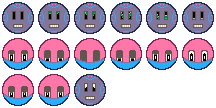
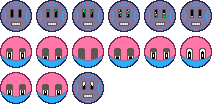
Integrate dgm::TextureAtlas and animated magnet lines

Changed region(s): [[0.0, 0.0, 1.0, 0.3173], [0.0, 0.3462, 0.5094, 1.0], [0.5094, 0.3462, 1.0, 0.6635]]

diff --git a/lib/src/game/engine/RenderingEngine.cpp b/lib/src/game/engine/RenderingEngine.cpp
@@ -34,6 +34,22 @@ static dgm::Camera createFullscreenCamera(
     return dgm::Camera(viewport, sf::Vector2f(desiredResolution));
 }
 
+static auto setAndGetSpritesheet(
+    dgm::TextureAtlas& atlas,
+    const sf::Texture& texture,
+    const dgm::AnimationStates& states)
+{
+    auto locator = atlas.addSpritesheet(texture, states);
+    return atlas.getAnimationStates(locator.value());
+}
+
+static auto setAndGetTileset(
+    dgm::TextureAtlas& atlas, const sf::Texture& texture, const dgm::Clip& clip)
+{
+    auto locator = atlas.addTileset(texture, clip);
+    return atlas.getClip(locator.value());
+}
+
 RenderingEngine::RenderingEngine(
     dgm::Window& window,
     dgm::ResourceManager& resmgr,
@@ -41,22 +57,39 @@ RenderingEngine::RenderingEngine(
     const StringProvider& strings,
     Scene& scene,
     const TiledLevel& level) noexcept
+    // Dependencies
     : window(window)
     , settings(settings)
     , strings(strings)
     , scene(scene)
+    // Atlas properties
+    , atlas(1024, 1024)
+    , ballAnimationStates(setAndGetSpritesheet(
+          atlas,
+          resmgr.get<sf::Texture>("ball.png"),
+          resmgr.get<dgm::AnimationStates>("ball.png.anim")))
+    , magnetLineAnimationStates(setAndGetSpritesheet(
+          atlas,
+          resmgr.get<sf::Texture>("lines.png"),
+          resmgr.get<dgm::AnimationStates>("lines.png.anim")))
+    , tileset(setAndGetTileset(
+          atlas,
+          resmgr.get<sf::Texture>("set.png"),
+          resmgr.get<dgm::Clip>("set.png.clip")))
+    // Non-drawables
     , boxDebugRenderer(window)
     , worldCamera(createFullscreenCamera(
           sf::Vector2f(window.getSize()), INTERNAL_RESOLUTION))
     , hudCamera(
           sf::FloatRect { { 0.f, 0.f }, { 1.f, 1.f } },
           sf::Vector2f(window.getSize()))
+    , animation(2, 10)
+
+    // Drawables
     , text(resmgr.get<sf::Font>("pico-8.ttf"))
-    , tileMap(dgm::TileMap(
-          resmgr.get<sf::Texture>("set.png"),
-          resmgr.get<dgm::Clip>("set.png.clip")))
-    , sprite(resmgr.get<sf::Texture>("ball.png"))
-    , ballStates(resmgr.get<dgm::AnimationStates>("ball.png.anim"))
+    , tileMap(dgm::TileMap(atlas.getTexture(), tileset))
+    , sprite(atlas.getTexture())
+    , line(atlas.getTexture())
     , background(resmgr.get<sf::Texture>("background-forest.png"))
 {
     tileMap.build(
@@ -67,9 +100,9 @@ RenderingEngine::RenderingEngine(
             | uniranges::to<std::vector>(),
         { level.width, level.height });
 
-    sprite.setTextureRect(ballStates["base_joe_idle"].getFrame(0));
-    sprite.setOrigin(
-        sf::Vector2f { ballStates["base_joe_idle"].getFrameSize() / 2u });
+    sprite.setTextureRect(ballAnimationStates["base_joe_idle"].getFrame(0));
+    sprite.setOrigin(sf::Vector2f {
+        ballAnimationStates["base_joe_idle"].getFrameSize() / 2u });
     spriteOutline.setRadius(sprite.getOrigin().x);
     spriteOutline.setOrigin(sprite.getOrigin());
     spriteOutline.setOutlineThickness(3.f);
@@ -77,10 +110,13 @@ RenderingEngine::RenderingEngine(
     boxDebugRenderer.SetFlags(b2Draw::e_shapeBit);
 
     background.setOrigin(INTERNAL_RESOLUTION / 2.f);
+
+    line.setOrigin({ 0.f, 12.f });
 }
 
 void RenderingEngine::update(const dgm::Time& time)
 {
+    animation.update(time);
     fpsCounter.update(time.getDeltaTime());
 }
 
@@ -131,12 +167,24 @@ void RenderingEngine::RenderWorld()
             const auto direction = scene.joe.GetPosition() - magnet.position;
             if (direction.length() < 6.f)
             {
-                auto vertices = std::array {
-                    sf::Vertex { .position = joePos },
-                    sf::Vertex { magnet.position * 32.f },
-                };
-                window.getSfmlWindowContext().draw(
-                    vertices.data(), 2u, sf::PrimitiveType::Lines);
+                const auto screenMagnetPos = magnet.position * 32.f;
+                line.setPosition(joePos);
+                line.setRotation(
+                    dgm::Math::cartesianToPolar(screenMagnetPos - joePos)
+                        .angle);
+                line.setScale({ (direction.length() * 32.f) / 48.f, 1.f });
+                line.setTextureRect(magnetLineAnimationStates
+                                        [magnet.polarity == 2 ? "red" : "blue"]
+                                            .getFrame(animation.getFrame()));
+
+                /* auto vertices = std::array {
+                                    sf::Vertex { .position = joePos },
+                                    sf::Vertex {},
+                                };
+                                window.getSfmlWindowContext().draw(
+                                    vertices.data(), 2u,
+                   sf::PrimitiveType::Lines);*/
+                window.draw(line);
             }
         }
     }

diff --git a/lib/include/game/engine/RenderingEngine.hpp b/lib/include/game/engine/RenderingEngine.hpp
@@ -8,6 +8,37 @@
 #include "strings/StringProvider.hpp"
 #include <DGM/dgm.hpp>
 
+class [[nodiscard]] SimpleAnimation final
+{
+public:
+    SimpleAnimation(size_t animLength, size_t fps) noexcept
+        : length(animLength), timePerFrame(sf::seconds(1.f / fps))
+    {
+    }
+
+public:
+    void update(const dgm::Time& time)
+    {
+        elapsed += time.getElapsed();
+        while (elapsed > timePerFrame)
+        {
+            elapsed -= timePerFrame;
+            frame = (frame + 1) % length;
+        }
+    }
+
+    CONSTEXPR_NODISCARD size_t getFrame() const noexcept
+    {
+        return frame;
+    }
+
+private:
+    size_t frame = 0;
+    size_t length = 1;
+    sf::Time timePerFrame;
+    sf::Time elapsed;
+};
+
 class [[nodiscard]] RenderingEngine final
 {
 public:
@@ -33,15 +64,23 @@ private:
     const VideoSettings& settings;
     const StringProvider& strings;
     Scene& scene;
+    dgm::TextureAtlas atlas;
+    dgm::AnimationStates ballAnimationStates;
+    dgm::AnimationStates magnetLineAnimationStates;
+    dgm::Clip tileset;
+
     BoxDebugRenderer boxDebugRenderer;
     dgm::Camera worldCamera;
     dgm::Camera hudCamera;
     FpsCounter fpsCounter;
-    sf::Text text;
+    SimpleAnimation animation;
 
+    sf::Text text;
     dgm::TileMap tileMap;
     sf::Sprite sprite;
-    dgm::AnimationStates ballStates;
+    sf::Sprite line;
     sf::CircleShape spriteOutline;
     sf::Sprite background;
+
+    size_t tick = 0;
 };

diff --git a/bin-windows/src/Main.cpp b/bin-windows/src/Main.cpp
@@ -1,9 +1,9 @@
 #include <DGM/dgm.hpp>
+#include <SFML/System/Err.hpp>
 #include <appstate/AppStateMainMenu.hpp>
 #include <filesystem/AppStorage.hpp>
 #include <misc/CMakeVars.hpp>
 #include <misc/DependencyContainer.hpp>
-#include <SFML/System/Err.hpp>
 
 const auto SETTINGS_FILE_NAME = std::filesystem::path("settings.json");
 
@@ -33,7 +33,12 @@ int main(int, char*[])
     catch (const std::exception& ex)
     {
         sf::err() << ex.what() << std::endl;
+
+#ifndef _DEBUG
         return 1;
+#else
+        throw;
+#endif
     }
 
     return 0;
